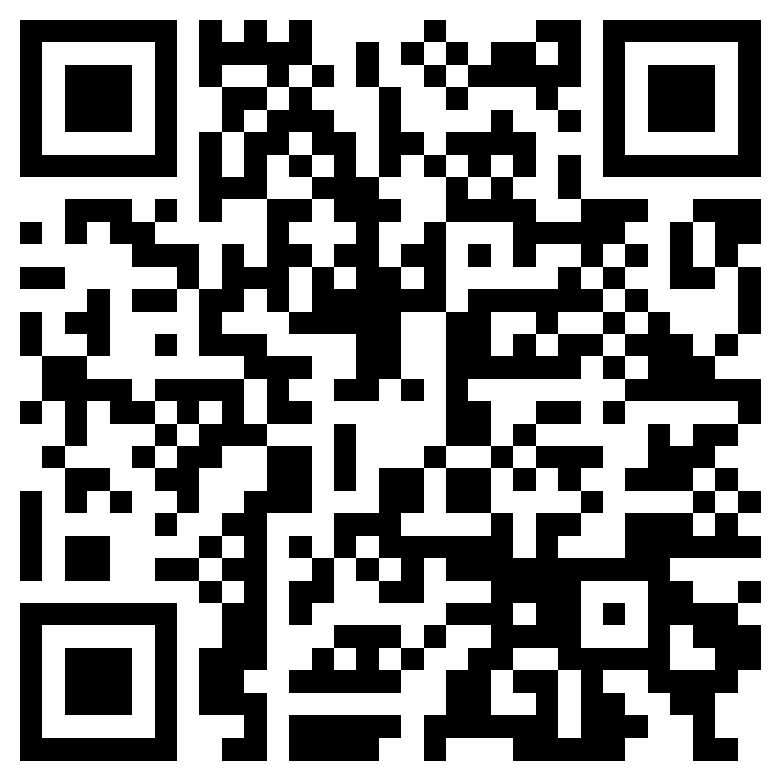
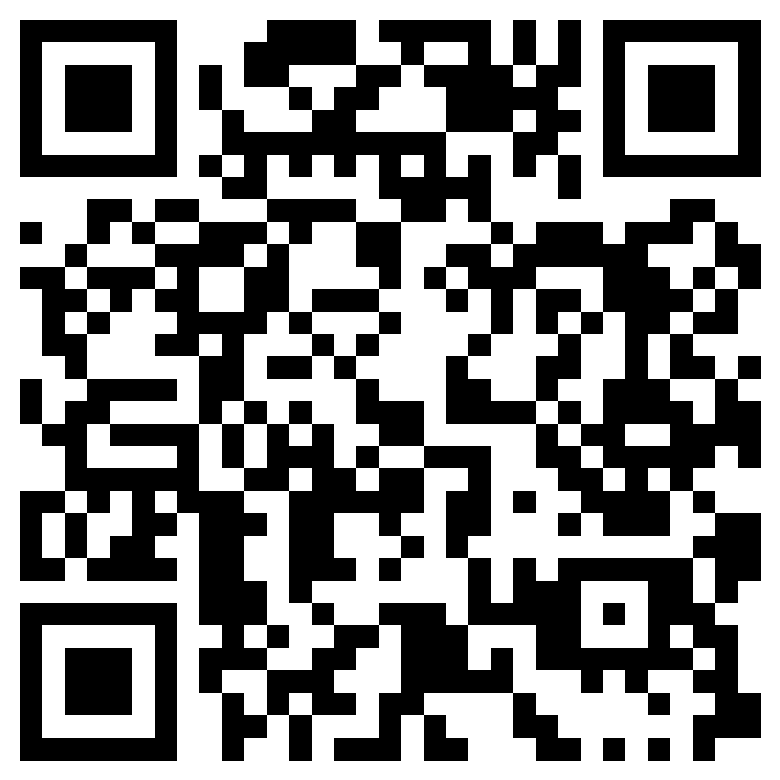
Update club marks, order QRs, and site copy

diff --git a/app/page.tsx b/app/page.tsx
@@ -35,7 +35,7 @@ const clubs: Club[] = [
   { school: '东莞市虎门中学', club: '春蕾文学社' },
   { school: '东莞市电子科技学校（中职代表）', club: '浪潮文学社' },
   { school: '东莞外国语学校', club: '候鸟文学社' },
-  { school: '东莞市长安中学', club: '莲峰文学社', featured: true },
+  { school: '东莞市长安中学', club: '莲峰文学社', logo: 'lianfeng.png', featured: true },
   { school: '东莞市东方明珠学校', club: '长庚文学社' },
   { school: '东莞市第八高级中学', club: '山风文学社', featured: true },
   { school: '东莞市东华高级中学（东城校区）', club: '旗峰文学社' },
@@ -59,13 +59,13 @@ const clubs: Club[] = [
   { school: '东莞市东华高级中学（生态园校区）', club: '燕岭文学社' },
   { school: '东莞市光明中学', club: '景行文学社' },
   { school: '东莞高级中学', club: '青草地文学社', logo: 'qingcaodi.webp' },
-  { school: '东莞市商业学校（莞城校区）', club: '玉鸣吟诵社', featured: true },
+  { school: '东莞市商业学校（莞城校区）', club: '玉鸣吟诵社' },
   { school: '东莞市海德实验学校', club: '海燕文学社' },
   { school: '东莞市电子商贸学校', club: '朝霞文学社' },
   { school: '东莞市弘林高级中学', club: '南亦书舍文学社', featured: true },
-  { school: '东莞市松山湖莞美学校', club: '行知文学社', featured: true },
+  { school: '东莞市松山湖莞美学校', club: '行知文学社', logo: 'xingzhi.png', featured: true },
   { school: '东莞市大岭山中学', club: '山青文学社', logo: 'shanqing.png', featured: true },
-  { school: '东莞市嘉荣外国语学校', club: '嘉韵文学社', featured: true },
+  { school: '东莞市嘉荣外国语学校', club: '嘉韵文学社', logo: 'jiayun.png', featured: true },
   { school: '东莞松山湖未来学校', club: '未星文学社' },
   { school: '东莞市东晖实验学校', club: '青葵文学社' },
   { school: '东莞市商业学校（东城校区）', club: '听雨文学社', logo: 'tingyu.png', square: true },
@@ -89,13 +89,12 @@ const orderSchools: OrderSchool[] = [
   { name: '东莞市济川中学', url: 'https://xtfvzrr0.jsjform.com/f/YPagjR', qr: '/assets/order-qr/jichuan.png' },
   { name: '东莞市南城开心实验学校', url: 'https://xtfvzrr0.jsjform.com/f/Itu1jq', qr: '/assets/order-qr/52herz.png' },
   { name: '东莞市北辰高级中学', url: 'https://xtfvzrr0.jsjform.com/f/y4XTkU', qr: '/assets/order-qr/beichen.png' },
-  { name: '东莞市商业学校（东城校区）', url: 'https://xtfvzrr0.jsjform.com/f/PyDpv4', qr: '/assets/order-qr/commercial-dongcheng.jpg' },
+  { name: '东莞市商业学校（东城校区）', url: 'https://xtfvzrr0.jsjform.com/f/PyDpv4', qr: '/assets/order-qr/commercial-dongcheng.png' },
   { name: '东莞市弘林高级中学', url: 'https://xtfvzrr0.jsjform.com/f/L0136G', qr: '/assets/order-qr/honglin.png' },
   { name: '东莞市松山湖莞美学校', url: 'https://xtfvzrr0.jsjform.com/f/pRvJFy', qr: '/assets/order-qr/guanmei.png' },
   { name: '东莞市长安中学', url: 'https://xtfvzrr0.jsjform.com/f/S4L49J', qr: '/assets/order-qr/changan.png' },
   { name: '东莞市海逸外国语学校', url: 'https://xtfvzrr0.jsjform.com/f/Juznoc', qr: '/assets/order-qr/haiyi.png' },
   { name: '东莞市第八高级中学', url: 'https://xtfvzrr0.jsjform.com/f/knkA0O', qr: '/assets/order-qr/no8.png' },
-  { name: '东莞市商业学校（莞城校区）', url: 'https://xtfvzrr0.jsjform.com/f/ZVDc4Z', qr: '/assets/order-qr/commercial-guancheng.png' },
   { name: '东莞市大岭山中学', url: 'https://xtfvzrr0.jsjform.com/f/TZ1mF3', qr: '/assets/order-qr/dalingshan.png' },
   { name: '东莞市嘉荣外国语学校', url: 'https://xtfvzrr0.jsjform.com/f/H2n45A', qr: '/assets/order-qr/jiarong.png' },
 ]
@@ -660,15 +659,17 @@ export default function Home() {
               </div>
               <div className="about-icon-stage about-stage-item"><img className="about-writing-image" src="/assets/about/hand-writing.png" alt="执笔写信的手" /></div>
             </div>
-            <div className="about-copy">
-              <h3 className="about-headline-stage about-stage-item">在打字方便的时代，<br />写信依旧是学生的浪漫</h3>
+            <div className={`about-copy${expanded ? ' about-copy-expanded' : ''}`}>
+              <h3 className="about-headline-stage about-stage-item">在信息便捷的时代，<br />我们依旧选择用笔书写。</h3>
               <div className="about-body-stage">
-                <p className="about-body-line-1 about-stage-item">自2019年始，我们有了一个<strong>约定</strong>。每逢秋深，东莞五十余所高中与中职的少年援笔书怀，将祝福与思念封入素笺；再经一场跨越全城的<strong>接力</strong>——统一收集、校际交换、逐一送达——由<strong>各校文学社</strong>，把每一份心意，稳稳送到对方手中。这便是<strong>漂流瓶</strong>活动，全东莞市规模最大的校际书信交流。</p>
-                <p className="about-body-line-2 about-stage-item">活动每年以一个诗词主题启程：2023 年「鸿雁锦书」、2024 年「闲潭梦落」、2025 年「焉问鱼沉」、2026 年「香笺承意」。</p>
-                <p className="about-body-line-3 about-stage-item"><strong>那些难能面诉的话，都借由书信来抵达。</strong></p>
+                <p className="about-body-line-1 about-stage-item">不知道从什么时候开始，我们逐渐忙碌于不断的信息间，每个小红点、每条未来得及处理的消息，都变成了指尖的滑动。旧日的光影好像永远来不及回顾，旧日的朋友也随生活不断地抵达或离开，好像再无法轻易寻得足迹。从初中升到高中，再从高中走向今后更广阔的世界。在即将过去的三年，乃至于更遥远的十年、三十年后，有什么能够经受时间的冲洗，仍旧可以保留些什么，让人再度记忆起这年轻的时节？我们与朋友共同度过的时日，我们为之悲伤、喜悦、青涩的校园生活？于是，在信息便捷的时代，我们依旧选择用笔书写。</p>
+                <p className="about-body-line-2 about-stage-item">东莞高中漂流瓶活动从2013年启动，但自2019年始，全东莞市高中文学社团共同为全市高中生做了一个约定。每逢秋深，要让东莞五十余所高中与中职的同学们通过执笔，用最单纯的书写，通过好像早已过时的信件，将自己与自己的生活真实地记录下来，把与朋友的友谊再度连接，为东莞市高中学子留下一份有关自己高中生活的独特纪念与时代回忆。由此走到今年第十五届，化为名为“东莞市高中漂流瓶”的全东莞市规模最大的校际书信交流活动。</p>
+                {expanded && <div className="expanded about-expanded about-stage-item">
+                  <p>我们感谢这十五届以来所有参与活动的同学们、各高中文学社团的工作人员，以及支持“漂流瓶”活动开展的社会各界人士。自东莞市漂流瓶活动由东莞市高中文学交流会接手后，2019至2026年这八年来，若没有东莞市近百万高中学子的支持、五十多所高中文学社团成员的辛勤付出，以及社会各界人士的包容，漂流瓶便无法走到今天。愿漂流瓶仍旧能伴随越来越多的东莞市高中生走过属于他们自己的高中生活；愿我们仍旧能够在快节奏的今天停一停，为自己的朋友或未来的自己，留下一份独属于二十一世纪中叶的礼物。</p>
+                  <p className="about-closing-quote"><strong>从前的日色变得慢，车，马，邮件都慢，一生只够爱一人。</strong><br />——木心《从前慢》</p>
+                </div>}
               </div>
               <button className="underline-button about-button-stage about-stage-item" aria-expanded={expanded} onClick={() => setExpanded(!expanded)}>Read Full <Arrow /></button>
-              {expanded && <p className="expanded about-expanded">人无法两次踏入同一条河流，却能在一张泛黄的纸页里，与年少的自己阔别重逢。</p>}
             </div>
           </section>
 
@@ -758,11 +759,12 @@ export default function Home() {
             <button className="order-dialog-submit" onClick={() => setOrderQrSchool('')}>返回学校选择</button>
           </div> : <>
             <p>选择你所在的学校，我们会带你前往对应的订购页面。</p>
+            <p className="order-deadline-notice">网站线上信封订购将统一于10月24日结束，部分学校可能提前结束，请留意本校文学社通知</p>
             <span className="order-school-label" id="order-school-label">所在学校</span>
             <div className="order-school-picker">
               <button className="order-school-trigger" id="order-school-trigger" aria-labelledby="order-school-label order-school-trigger" aria-haspopup="listbox" aria-expanded={schoolMenuOpen} onClick={() => setSchoolMenuOpen(!schoolMenuOpen)} autoFocus><span>{selectedSchool || '请选择学校'}</span><b aria-hidden="true">⌄</b></button>
               {schoolMenuOpen && <div className="order-school-menu" role="listbox" aria-labelledby="order-school-label">
-                {orderSchools.map((school) => <button className={selectedSchool === school.name ? 'selected' : ''} role="option" aria-selected={selectedSchool === school.name} onClick={() => { setSelectedSchool(school.name); setOrderNotice(school.qr || school.url ? '' : '该学校的订购二维码稍后开放'); setOrderQrSchool(''); setSchoolMenuOpen(false) }} key={school.name}>{school.name}<span aria-hidden="true">{selectedSchool === school.name ? '✓' : ''}</span></button>)}
+                {orderSchools.map((school) => <button className={selectedSchool === school.name ? 'selected' : ''} role="option" aria-selected={selectedSchool === school.name} onClick={() => { setSelectedSchool(school.name); setOrderNotice(school.qr || school.url ? '' : '该学校的订购二维码稍后开放'); setOrderQrSchool(''); setSchoolMenuOpen(false) }} key={school.name}><span className="order-school-option-label">{school.name}{school.name === '东莞市万江中学' && <small className="order-school-deadline">（10.10日23：59截止）</small>}</span><span aria-hidden="true">{selectedSchool === school.name ? '✓' : ''}</span></button>)}
               </div>}
             </div>
             <button className="order-dialog-submit" disabled={!selectedSchool || Boolean(selectedOrderSchool && !selectedOrderSchool.qr && !selectedOrderSchool.url)} onClick={submitOrder}>{selectedOrderSchool?.qr ? '显示订购二维码' : selectedOrderSchool?.url ? '立即订购' : selectedOrderSchool ? '订购暂未开放' : '立即订购'}{selectedOrderSchool?.qr || selectedOrderSchool?.url ? <Arrow /> : null}</button>

diff --git a/app/globals.css b/app/globals.css
@@ -98,10 +98,13 @@
 .hero-about .about-button-stage:hover:after,.hero-about .about-button-stage:focus-visible:after{transform:scaleX(1)}
 .hero-about .about-button-stage:hover .arrow,.hero-about .about-button-stage:focus-visible .arrow{transform:translate3d(4px,-4px,0)}
 .hero-about .about-expanded{margin-top:14px;font-size:13px;letter-spacing:.06em}
+.hero-about .about-copy-expanded{max-height:80vh;overflow-y:auto;padding-right:10px;scrollbar-width:thin;scrollbar-color:var(--line) transparent}
+.hero-about .about-expanded p+p{margin-top:14px}
+.hero-about .about-closing-quote{padding-top:4px;color:var(--fg)!important}
 
 @media(max-width:800px){.pointer-glow{display:none}.journey-button:before{display:none}.journey-button:hover,.journey-button:focus-visible{background:var(--fg);border-color:transparent;color:var(--bg)}.journey-button:hover .journey-button-content,.journey-button:focus-visible .journey-button-content{mix-blend-mode:normal;color:inherit}}
 
-@media(max-width:800px){.hero-about{display:block}.hero-about .section-label,.hero-about .about-copy,.hero-transition[data-about-phase] .about-stage-item{opacity:1;filter:none;transform:none;pointer-events:auto;animation:none;transition:none}.hero-about .about-title-stage>small{font-size:14px}.hero-about .about-title-stage h2{font-size:60px}.about-icon-stage{width:min(90vw,520px);margin:38px auto 52px}.hero-about .about-copy h3{font-size:31px}.hero-about .about-body-stage p{font-size:14px;line-height:1.85}.hero-about .about-button-stage{font-size:12px}}
+@media(max-width:800px){.hero-about{display:block}.hero-about .section-label,.hero-about .about-copy,.hero-transition[data-about-phase] .about-stage-item{opacity:1;filter:none;transform:none;pointer-events:auto;animation:none;transition:none}.hero-about .about-title-stage>small{font-size:14px}.hero-about .about-title-stage h2{font-size:60px}.about-icon-stage{width:min(90vw,520px);margin:38px auto 52px}.hero-about .about-copy h3{font-size:31px}.hero-about .about-body-stage p{font-size:14px;line-height:1.85}.hero-about .about-button-stage{font-size:12px}.hero-about .about-copy-expanded{max-height:none;overflow:visible;padding-right:0}}
 
 /* Participating schools and literary clubs. */
 .club-section{min-height:auto;padding-top:110px;padding-bottom:150px}
@@ -161,7 +164,8 @@
 .build-notice-dialog p b{color:var(--fg);font-weight:700}
 .build-notice-dialog .order-dialog-submit{margin-top:30px}
 .order-dialog>p:not(.order-dialog-notice){max-width:370px;margin:18px 0 30px;color:var(--muted);font-size:12px;line-height:1.7;letter-spacing:.04em}
-.order-school-label{display:block;margin-bottom:10px;color:var(--muted);font-size:10px;letter-spacing:.15em}.order-school-picker{position:relative}.order-school-trigger{display:flex;align-items:center;justify-content:space-between;width:100%;height:50px;padding:0 14px;border:1px solid var(--line);background:var(--bg);color:var(--fg);font-size:13px;letter-spacing:.04em;text-align:left}.order-school-trigger:hover,.order-school-trigger:focus-visible,.order-school-trigger[aria-expanded="true"]{border-color:var(--fg);outline:none}.order-school-trigger b{font-size:18px;font-weight:400;transform:translateY(-2px);transition:transform .2s ease}.order-school-trigger[aria-expanded="true"] b{transform:rotate(180deg) translateY(2px)}.order-school-menu{position:absolute;z-index:5;top:calc(100% + 6px);left:0;width:100%;max-height:min(260px,35vh);overflow-y:auto;border:1px solid var(--line);background:var(--bg);box-shadow:0 18px 42px rgba(0,0,0,.3)}.order-school-menu button{display:flex;align-items:center;justify-content:space-between;width:100%;min-height:42px;padding:10px 14px;border-bottom:1px solid var(--line);color:var(--muted);font-size:12px;letter-spacing:.035em;text-align:left}.order-school-menu button:last-child{border-bottom:0}.order-school-menu button:hover,.order-school-menu button:focus-visible,.order-school-menu button.selected{background:color-mix(in srgb,var(--fg) 7%,var(--bg));color:var(--fg);outline:none}.order-school-menu button span{margin-left:12px}
+.order-dialog>p.order-deadline-notice{max-width:none;margin:-16px 0 25px;padding:12px 14px;border-left:2px solid #e2b45f;background:rgba(226,180,95,.09);color:color-mix(in srgb,#e2b45f 86%,var(--fg));font-size:11px;line-height:1.7;letter-spacing:.04em}
+.order-school-label{display:block;margin-bottom:10px;color:var(--muted);font-size:10px;letter-spacing:.15em}.order-school-picker{position:relative}.order-school-trigger{display:flex;align-items:center;justify-content:space-between;width:100%;height:50px;padding:0 14px;border:1px solid var(--line);background:var(--bg);color:var(--fg);font-size:13px;letter-spacing:.04em;text-align:left}.order-school-trigger:hover,.order-school-trigger:focus-visible,.order-school-trigger[aria-expanded="true"]{border-color:var(--fg);outline:none}.order-school-trigger b{font-size:18px;font-weight:400;transform:translateY(-2px);transition:transform .2s ease}.order-school-trigger[aria-expanded="true"] b{transform:rotate(180deg) translateY(2px)}.order-school-menu{position:absolute;z-index:5;top:calc(100% + 6px);left:0;width:100%;max-height:min(260px,35vh);overflow-y:auto;border:1px solid var(--line);background:var(--bg);box-shadow:0 18px 42px rgba(0,0,0,.3)}.order-school-menu button{display:flex;align-items:center;justify-content:space-between;width:100%;min-height:42px;padding:10px 14px;border-bottom:1px solid var(--line);color:var(--muted);font-size:12px;letter-spacing:.035em;text-align:left}.order-school-menu button:last-child{border-bottom:0}.order-school-menu button:hover,.order-school-menu button:focus-visible,.order-school-menu button.selected{background:color-mix(in srgb,var(--fg) 7%,var(--bg));color:var(--fg);outline:none}.order-school-menu button span{margin-left:12px}.order-school-option-label{display:flex;align-items:center;gap:8px;flex-wrap:wrap}.order-school-menu button .order-school-deadline{margin:0;color:#e2b45f;font-size:10px;letter-spacing:0;white-space:nowrap}
 .order-dialog-submit{width:100%;height:50px;margin-top:16px;border:1px solid var(--fg);background:var(--fg);color:var(--bg);font-size:11px;font-weight:700;letter-spacing:.15em;transition:background .25s ease,color .25s ease,opacity .25s ease}
 .order-dialog-submit:not(:disabled):hover,.order-dialog-submit:not(:disabled):focus-visible{background:var(--bg);color:var(--fg);outline:none}
 .order-dialog-submit:disabled{cursor:not-allowed;opacity:.28}
